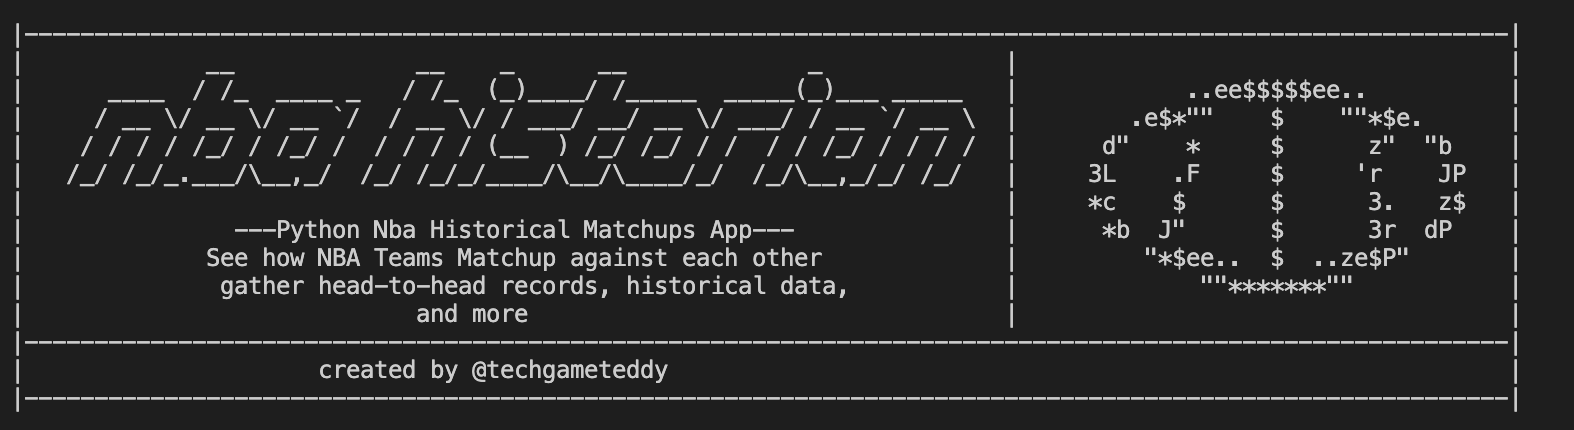
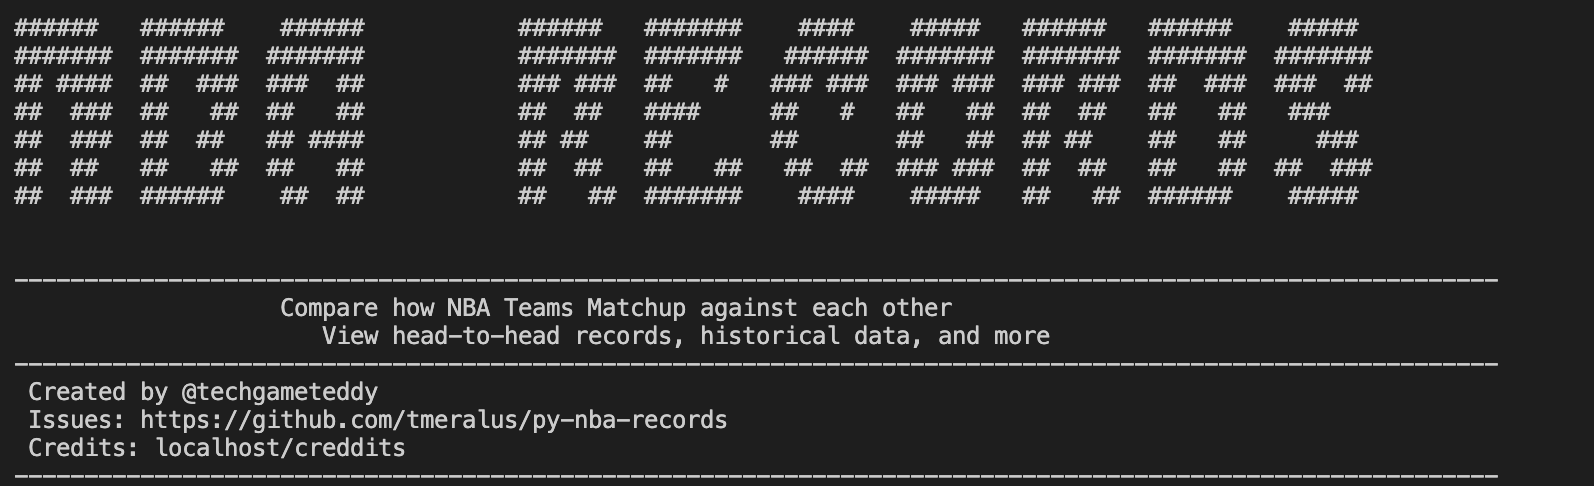
refactor(restructured-dev-branch): worked on main branch and noticed late

diff --git a/records.py b/records.py
@@ -1,0 +1,105 @@
+#!/usr/bin/env python 
+import json
+import pandas as pd
+import argparse # adding command line switches 
+from art import *
+
+__author__ = "Tedley Meralus"
+__copyright__ = "Copyright 2022, Tedley Meralus"
+__credits__ = ["Tedley Meralus",]
+__license__ = "GPL"
+__version__ = "1.0.1"
+__maintainer__ = "Tedley Meralus"
+__email__ = "tmeralus@gmail.com"
+__status__ = "Development"
+
+# Parse Arguments
+def parser_error(errmsg): 
+    print("Usage: python " + sys.argv[0] + " [Options] use -h for help")
+    print(R + "Error: " + errmsg + W)
+    sys.exit()
+
+def parse_args():  
+    # add command-line arguments
+    parser = argparse.ArgumentParser(description='a python tool that grabs historical nba records to gather head-to-head matchups of nba teams and more')
+    parser.error = parser_error
+    parser._optionals.title = "OPTIONS" 
+    parser.add_argument("--credits", help="Prints credits and contributions page") 
+    parser.add_argument("-e", "-est", "--established", help=" print records of teams establised year and names") 
+    parser.add_argument("-t", "-teams", "--teams", help=" print record of teams in order of championships")  
+    return parser.parse_args()
+ 
+
+# Credits Banner 
+def credits_banner():
+    cbanner = """
+|----------------------------------------------------------------------------------------------------|
+|                                                      ___________________   ___________________      |
+|                     _ _ _                        .-/|                   \ /                  |\-.   |
+|                    | (_) |                       ||||    ~~*~~           |       ~~*~~       ||||   |
+|    ___ _ __ ___  __| |_| |_ ___                  |||| Dr. James Naismith |    Inventor of    ||||   |
+|   / __| '__/ _ \/ _` | | __/ __|                 ||||                    |    Basketball     ||||   |
+|   | (__| | |  __/ (_| | | |_\__ \                ||||    ~~*~~           |       ~~*~~       ||||   |
+|    \___|_|  \___|\__,_|_|\__|___/                |||| Born: 11-06-1861   |   ____________    ||||   |
+|                                                  |||| Died: 11-28-1939   |  |_____ ______|   ||||   |
+|                                                  ||||                    |   \/\/\/\\//\/    ||||   |
+|                                                  ||||    ~~*~~           |    \/\/\/\/\/     ||||   |
+|                                                  ||||   Physician,       |     |/\/\/\|      ||||   |
+|                                                  ||||    Educator        |      |/\/\|       ||||   |
+|                                                  ||||    Chaplain,       |                   ||||   |
+|                                                  ||||   Sports coach,    |                   ||||   |
+|                                                  ||||___________________ | __________________||||   |
+|                                                  ||/====================\|/===================\||   |
+|                                                  `---------------------~___~-------------------''   |
+|-----------------------------------------------------------------------------------------------------|
+|                                                                         |                           |
+|   Credits and Contributions to the nba-historian Python App             |                           |
+|   Created by Tedley Meralus <tmeralus@gmail.com>                        |                           |
+|    Twitter: @techgameteddy                                              |                           |
+|                                                                         |                           |
+|-----------------------------------------------------------------------------------------------------|
+        """
+    print(cbanner) 
+
+# Banner Ascii Art and notes
+BannerArt=text2art("nba records", "random")
+BannerBorder=("----------------------------------------------------------------------------------------------------------")
+BarcodeBorder=text2art("---------------------------------------------------------------------------------",font="fancy12",decoration="barcode1")
+BarcodeEmptyBorder=text2art("                                                                                        ",font="fancy12",decoration="barcode1")
+BannerBorder=("----------------------------------------------------------------------------------------------------------")
+BannerText1=("                   Compare how NBA Teams Matchup against each other")
+BannerText2=("                      View head-to-head records, historical data, and more")
+BannerAuthor=(" Created by @techgameteddy")
+BannerIssues=(" Issues: https://github.com/tmeralus/py-nba-records ") 
+BannerCredits=(" Credits: localhost/creddits ") 
+
+def title_banner():  
+    print(BannerArt)  
+    print(BannerBorder)  
+    print(BannerText1) 
+    print(BannerText2) 
+    print(BannerBorder)  
+    print(BannerAuthor)   
+    print(BannerIssues) 
+    print(BannerCredits) 
+    print(BannerBorder) 
+ 
+# function for list of team names 
+def team_history_table(): 
+    # read teams data
+    nba_teams = pd.read_json('data/team-history.json')
+    nba_table = pd.DataFrame(nba_teams)
+    print(nba_table) 
+
+
+
+
+def interactive(): 
+    title_banner()
+    #team_history_table()
+    parse_args()  
+    
+if __name__ == "__main__":
+    interactive()
+
+ 

diff --git a/established.py b/established.py
@@ -1,10 +1,6 @@
-from banner import title_banner
 import json
 import pandas as pd
 import argparse # adding command line switches 
-
-# print banner  
-title_banner() 
 
 # read teams data
 nba_teams = pd.read_json('data/team-history.json')
